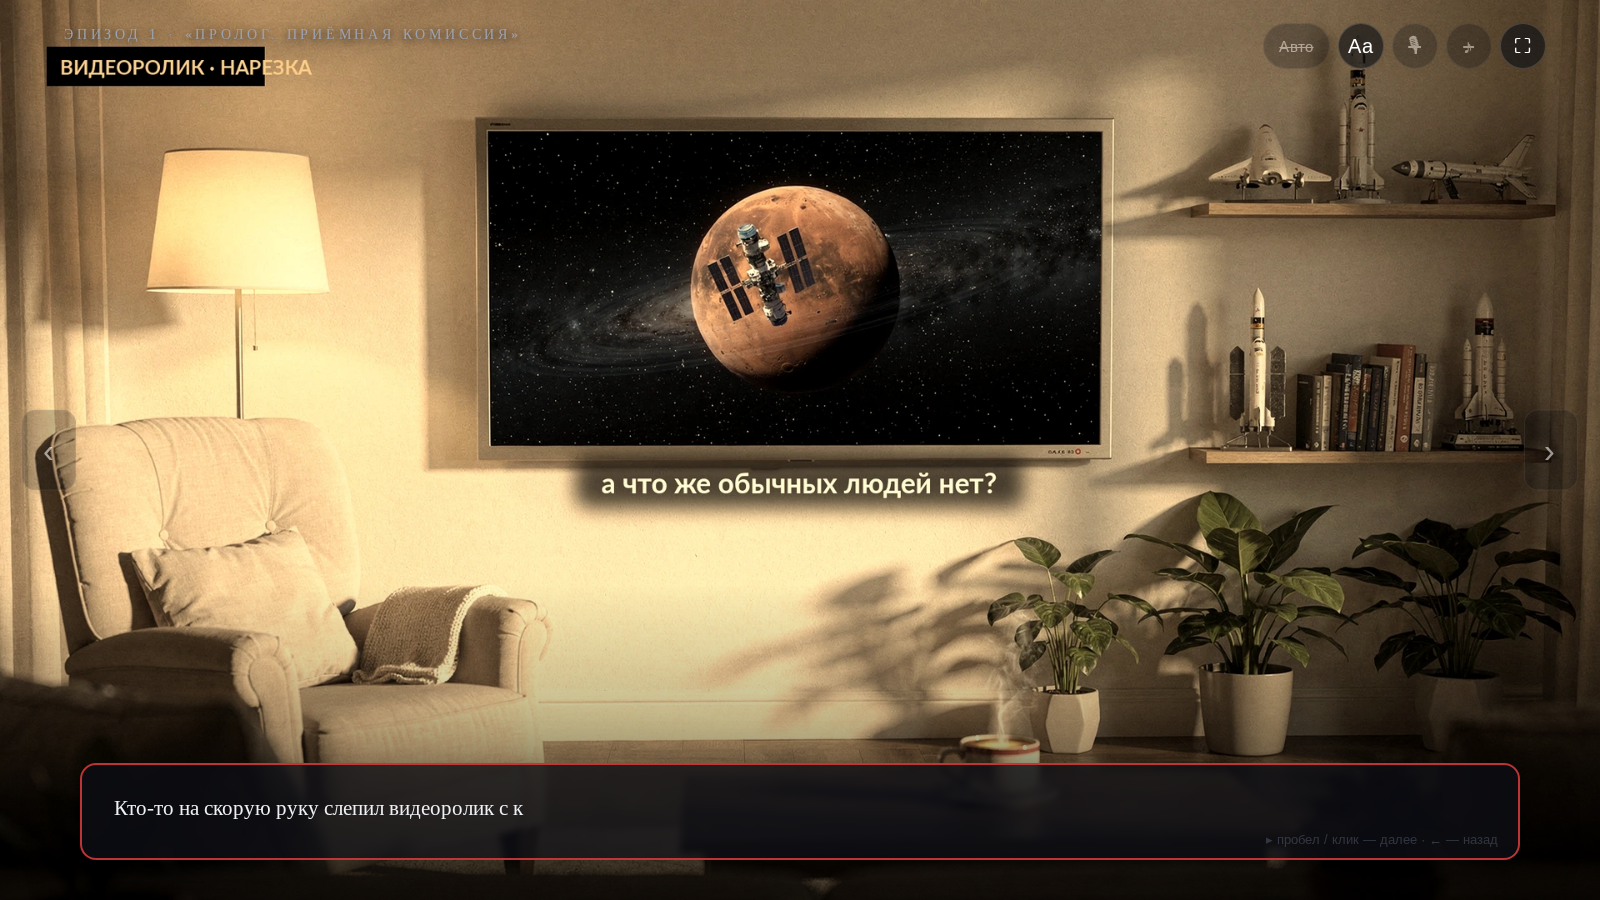
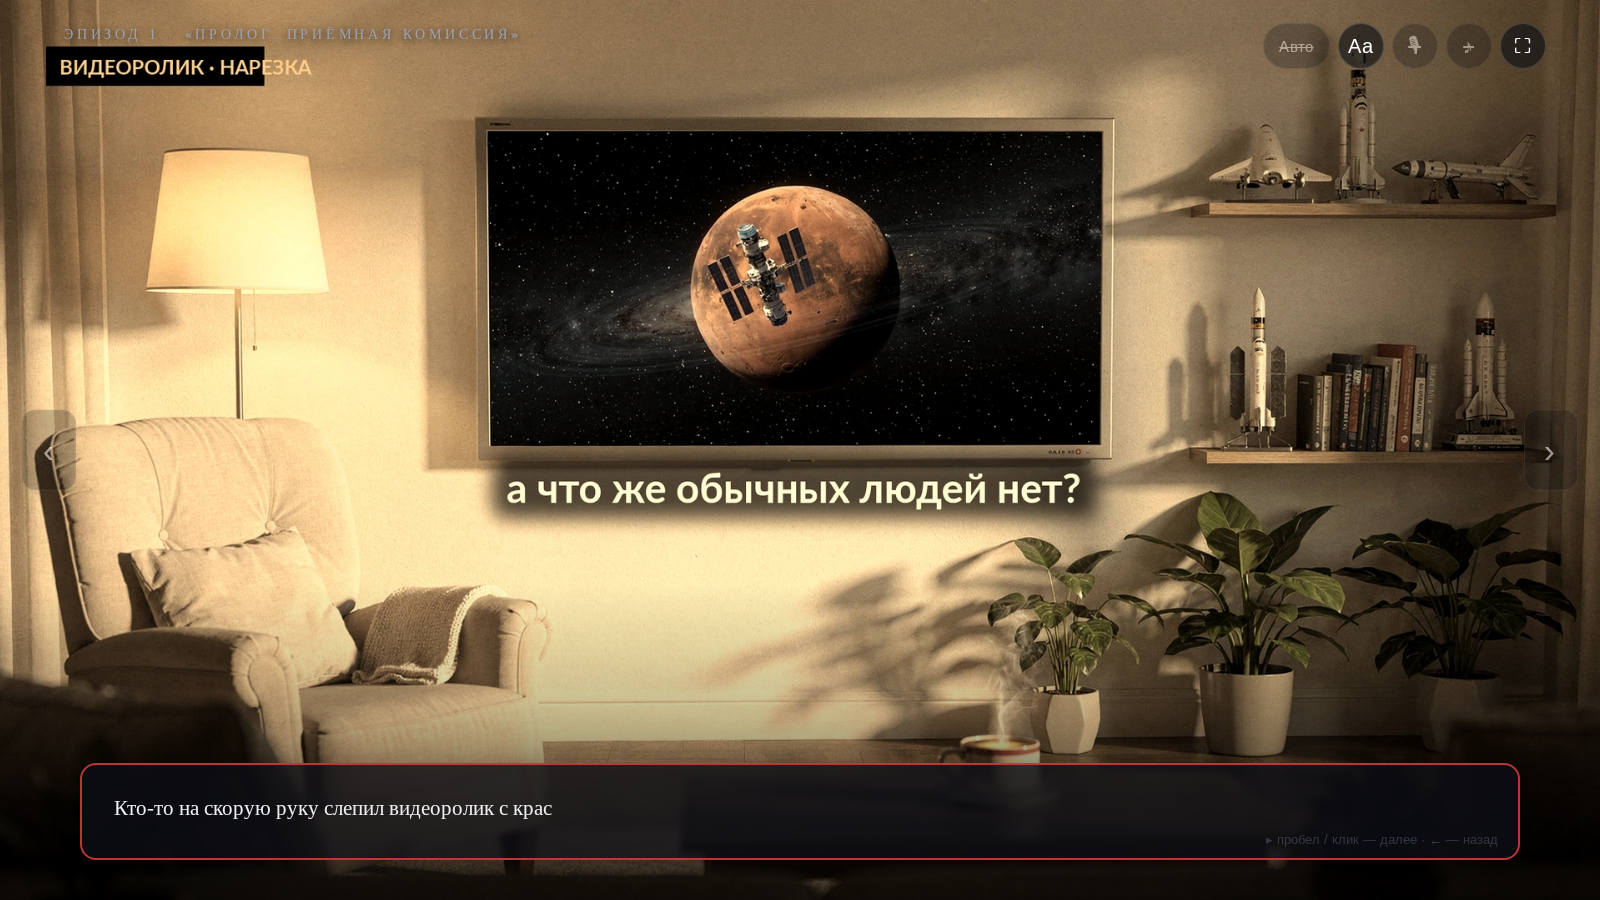
VN эп1 (vn2): S4 — кегль подписи подогнан под ширину экрана ТВ (Иван: «слишком мелко»): 52->42->61, ширина строки 861 px = 94% экрана ТВ (733..1650 в 2400x1350), плашка (738,684)-(1643,777) по центру экрана, 18 px под нижней кромкой; на наезде 1.5x текст 43 px и до подстрочника 101 px, в покое 29 px

diff --git a/_prolog_finals.py b/_prolog_finals.py
@@ -123,19 +123,27 @@ def build(n):
         d.text((1200, 860), 'а что же обычных людей нет?', font=F(LATO_B, 52), fill=CREAM, anchor='ma')
         base = tag(base, 'ЗАЛ · ВОПРОС')
     elif n == 's4':
-        # ПРАВКА 2026-10-17 (Иван): подпись уходила под подстрочник при наезде камеры
-        # (scale 1.0->1.5, origin 44%/30%). Теперь она МЕЛЬЧЕ и ВЫШЕ — сразу под нижней
-        # кромкой ТВ, чтобы на наезде увеличиться и читаться, но не лезть в #box.
-        # Экран ТВ в пространстве 2400x1350: x 731..1666, y 195..666 (замер по s4.png).
-        txt = 'а что же обычных людей нет?'
-        fnt = F(LATO_B, 42)
-        tw = ImageDraw.Draw(base).textlength(txt, font=fnt)
-        cx, by0 = 1199, 684          # центр по ТВ, верх плашки — 6 px под кромкой
-        pad_x, pad_y = 40, 18
+        # ПРАВКА 2026-10-17 (Иван): сначала подпись уходила под подстрочник при наезде
+        # (scale 1.0->1.5, origin x .44 y .30) — поднята к телевизору. Затем «слишком мелко» —
+        # кегль подгоняется ПОД ШИРИНУ ЭКРАНА ТВ (замер по s4.png, 2400-пространство:
+        # экран ТВ x 733..1650 (ширина 917), y 197..666).
+        TXT = 'а что же обычных людей нет?'
+        TV_L, TV_R, TV_B = 733, 1650, 666      # экран ТВ в 2400x1350
+        TARGET = int((TV_R - TV_L) * 0.94)      # 94% ширины экрана -> поля по краям
+        size = 40
+        d = ImageDraw.Draw(base)
+        while d.textlength(TXT, font=F(LATO_B, size)) < TARGET:
+            size += 1
+        fnt = F(LATO_B, size)
+        tw = d.textlength(TXT, font=fnt)
+        cx, by0 = (TV_L + TV_R) // 2, TV_B + 18   # по центру экрана, чуть ниже кромки
+        pad_x, pad_y = 22, 16
         bx0, bx1 = int(cx - tw / 2 - pad_x), int(cx + tw / 2 + pad_x)
-        by1 = int(by0 + 42 + 2 * pad_y)
+        by1 = int(by0 + size + 2 * pad_y)
         base = soft(base, (bx0, by0, bx1, by1), (4, 5, 10), 180, blur=14)
-        ImageDraw.Draw(base).text((cx, (by0 + by1) / 2), txt, font=fnt, fill=CREAM, anchor='mm')
+        ImageDraw.Draw(base).text((cx, (by0 + by1) / 2), TXT, font=fnt, fill=CREAM, anchor='mm')
+        print('   s4 caption: size=%d tw=%.0f (экран %d) band=%s' % (size, tw, TV_R - TV_L,
+                                                               (bx0, by0, bx1, by1)))
         base = tag(base, 'ВИДЕОРОЛИК · НАРЕЗКА')
     elif n == 's5':
         # ВАРИАНТ A (выбран заказчиком 2026-10-17): полоса лозунга на фасаде.

diff --git a/_s4_cap_ab2.py b/_s4_cap_ab2.py
@@ -1,0 +1,39 @@
+# -*- coding: utf-8 -*-
+"""Лист для Ивана: было (наезд, мелкая низкая подпись) / стало в покое / стало на наезде."""
+import os
+from PIL import Image, ImageDraw, ImageFont
+
+HERE = os.path.dirname(os.path.abspath(__file__))
+REV = os.path.join(HERE, 'assets', 'review')
+GOTHIC = '/usr/share/fonts/opentype/urw-base35/URWGothic-Demi.otf'
+LATO = '/usr/share/fonts/truetype/lato/Lato-Bold.ttf'
+
+PANELS = [
+    ('review_113_s4_cap_before.png', 'БЫЛО', 'кегль 52, подпись внизу — на наезде уходила под подстрочник', (214, 96, 82)),
+    ('review_113_s4_cap_wide.png', 'СТАЛО · покой', 'кегль 61 = 94% ширины экрана ТВ, сразу под телевизором', (126, 214, 128)),
+    ('review_113_s4_cap_zoom.png', 'СТАЛО · наезд 1.5x', 'растёт до 91%, до подстрочника 101 px — не перекрывается', (126, 214, 128)),
+]
+W, HEAD = 1400, 78
+ims = []
+for fn, title, sub, col in PANELS:
+    im = Image.open(os.path.join(REV, fn)).convert('RGB')
+    im = im.resize((W, int(W * im.height / im.width)), Image.LANCZOS)
+    ims.append((im, title, sub, col))
+
+total_h = sum(im.height + HEAD for im, *_ in ims)
+sheet = Image.new('RGB', (W, total_h), (14, 16, 22))
+d = ImageDraw.Draw(sheet)
+f1 = ImageFont.truetype(GOTHIC, 34)
+f2 = ImageFont.truetype(LATO, 22)
+y = 0
+for im, title, sub, col in ims:
+    d.rectangle([0, y, W, y + HEAD - 6], fill=(22, 26, 34))
+    d.text((24, y + 8), title, font=f1, fill=col)
+    d.text((400, y + 26), sub, font=f2, fill=(226, 220, 206))
+    y += HEAD
+    sheet.paste(im, (0, y))
+    y += im.height
+    d.rectangle([0, y - 3, W, y], fill=(60, 66, 80))
+out = os.path.join(REV, 'review_114_s4_caption_fit.png')
+sheet.save(out)
+print(out, sheet.size, os.path.getsize(out), 'B')

diff --git a/_s4_tv_box.py b/_s4_tv_box.py
@@ -1,0 +1,34 @@
+# -*- coding: utf-8 -*-
+"""Точные границы ТВ-экрана: ищем тёмную панель (звёздное поле) внутри светлого корпуса."""
+import os
+import numpy as np
+from PIL import Image
+
+HERE = os.path.dirname(os.path.abspath(__file__))
+im = Image.open(os.path.join(HERE, 'assets/final/prolog/s4.png')).convert('RGB')
+W, H = im.size
+a = np.asarray(im).astype(np.float32)
+lum = a @ np.array([0.299, 0.587, 0.114], dtype=np.float32)
+
+# окно, где заведомо есть ТВ
+AX0, AX1, AY0, AY1 = 500, 1400, 100, 600
+sub = lum[AY0:AY1, AX0:AX1]
+# тёмное звёздное поле: lum < 60
+dark = sub < 60
+# для каждой строки считаем протяжённость тёмного
+rows = dark.mean(1)
+cols = dark.mean(0)
+ry = [AY0 + i for i in range(len(rows)) if rows[i] > 0.5]
+rx = [AX0 + i for i in range(len(cols)) if cols[i] > 0.4]
+print('строки панели:', min(ry), '..', max(ry))
+print('столбцы панели:', min(rx), '..', max(rx))
+y0, y1, x0, x1 = min(ry), max(ry), min(rx), max(rx)
+print('экран 1920:', x0, y0, x1, y1, 'w=%d h=%d' % (x1 - x0, y1 - y0))
+print('экран 2400 (x1.25):', x0 * 1.25, y0 * 1.25, x1 * 1.25, y1 * 1.25,
+      'w=%.0f' % ((x1 - x0) * 1.25))
+
+# корпус: яркая рамка вокруг -> ищем по градиенту
+prof = lum[AY0:AY1, :].mean(0)
+print('\nпрофиль lum по x (1500..1700 в 2400-пространстве = 1200..1360 в 1920):')
+for x in range(1290, 1360, 2):
+    print(x, round(float(prof[x]), 1))

diff --git a/_s4_cap_dom.py b/_s4_cap_dom.py
@@ -9,7 +9,9 @@ sys.path.insert(0, HERE)
 from _cdp import Browser
 
 # доля кадра, которую занимает плашка (из _prolog_finals.build('s4'), 2400x1350)
-CX0, CY0, CX1, CY1 = 862 / 2400.0, 684 / 1350.0, 1535 / 2400.0, 762 / 1350.0
+CX0, CY0, CX1, CY1 = 738 / 2400.0, 684 / 1350.0, 1643 / 2400.0, 777 / 1350.0
+# экран ТВ (для справки): 733..1650 по x, 197..666 по y
+TV = (733 / 2400.0, 197 / 1350.0, 1650 / 2400.0, 666 / 1350.0)
 
 JS = '''(() => {
   const r = (el) => { const b = el.getBoundingClientRect();
@@ -40,6 +42,12 @@ for tag, extra in (('zoom', '&instant=1'), ('wide', '')):
         print('  stage h=%.0f  bg rect w=%.0f h=%.0f' % (d['stage']['h'], bg['w'], bg['h']))
         print('  плашка: x %.0f..%.0f  y %.0f..%.0f  (h=%.0f px)' %
               (cap['l'], cap['r'], cap['t'], cap['b'], cap['b'] - cap['t']))
+        tvr = dict(l=bg['l'] + TV[0] * bg['w'], t=bg['t'] + TV[1] * bg['h'],
+                   r=bg['l'] + TV[2] * bg['w'], b=bg['t'] + TV[3] * bg['h'])
+        print('  экран ТВ: x %.0f..%.0f (w=%.0f)  y %.0f..%.0f' %
+              (tvr['l'], tvr['r'], tvr['r'] - tvr['l'], tvr['t'], tvr['b']))
+        print('  ширина подписи / ширина экрана = %.1f%%' %
+              (100.0 * (cap['r'] - cap['l']) / (tvr['r'] - tvr['l'])))
         print('  #box:   верх %.0f  (#text верх %.0f)' % (d['box']['t'], d['text']['t']))
         print('  зазор плашка->#box: %.0f px' % (d['box']['t'] - cap['b']))
         print('  плашка внутри сцены: %s (сцена %.0f..%.0f)' %

diff --git a/_s4_grid.py b/_s4_grid.py
@@ -1,0 +1,33 @@
+# -*- coding: utf-8 -*-
+"""Сетка на финальном кадре S4 — чтобы точно увидеть границы телевизора и подписи."""
+import os
+from PIL import Image, ImageDraw, ImageFont
+
+HERE = os.path.dirname(os.path.abspath(__file__))
+REV = os.path.join(HERE, 'assets', 'review')
+src = Image.open(os.path.join(HERE, 'assets/final/prolog/s4.png')).convert('RGB')
+W, H = src.size
+im = src.copy()
+d = ImageDraw.Draw(im)
+f = ImageFont.truetype('/usr/share/fonts/truetype/lato/Lato-Bold.ttf', 22)
+for x in range(0, W, 100):
+    col = (0, 255, 0) if x % 500 == 0 else (0, 140, 0)
+    d.line([(x, 0), (x, H)], fill=col, width=2 if x % 500 == 0 else 1)
+    d.text((x + 3, 4), str(x), font=f, fill=(0, 255, 0))
+for y in range(0, H, 100):
+    col = (255, 220, 0) if y % 500 == 0 else (140, 120, 0)
+    d.line([(0, y), (W, y)], fill=col, width=2 if y % 500 == 0 else 1)
+    d.text((4, y + 2), str(y), font=f, fill=(255, 220, 0))
+out = os.path.join(REV, '_s4_grid.png')
+im.save(out)
+print(out, im.size)
+
+# то же в пространстве сборки 2400x1350
+im2 = im.resize((2400, 1350), Image.LANCZOS)
+d2 = ImageDraw.Draw(im2)
+for x in range(0, 2400, 100):
+    d2.line([(x, 0), (x, 1350)], fill=(0, 90, 255), width=1)
+for y in range(0, 1350, 100):
+    d2.line([(0, y), (2400, y)], fill=(0, 60, 180), width=1)
+im2.resize((1200, 675), Image.LANCZOS).save(os.path.join(REV, '_s4_grid24.png'))
+print('2400-сетка: _s4_grid24.png')

diff --git a/_s4_tv_edge.py b/_s4_tv_edge.py
@@ -1,0 +1,18 @@
+# -*- coding: utf-8 -*-
+"""Нижняя и верхняя кромка звёздного поля ТВ + кромки корпуса."""
+import os
+import numpy as np
+from PIL import Image
+
+HERE = os.path.dirname(os.path.abspath(__file__))
+im = Image.open(os.path.join(HERE, 'assets/final/prolog/s4.png')).convert('RGB')
+a = np.asarray(im).astype(np.float32)
+lum = a @ np.array([0.299, 0.587, 0.114], dtype=np.float32)
+seg = lum[:, 620:1290]
+m = seg.mean(1)
+print('y : mean lum  (x 620..1290)')
+for y in range(505, 585, 2):
+    print('%4d %6.1f' % (y, m[y]))
+print('--- верх ---')
+for y in range(135, 175, 2):
+    print('%4d %6.1f' % (y, m[y]))
